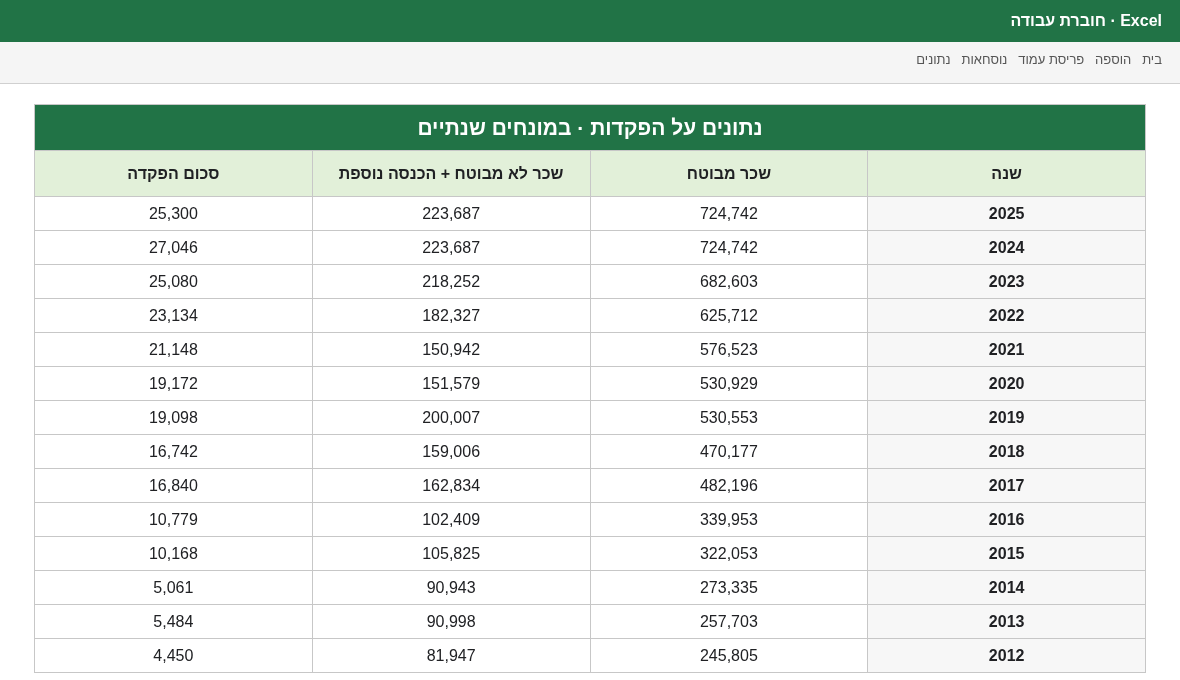
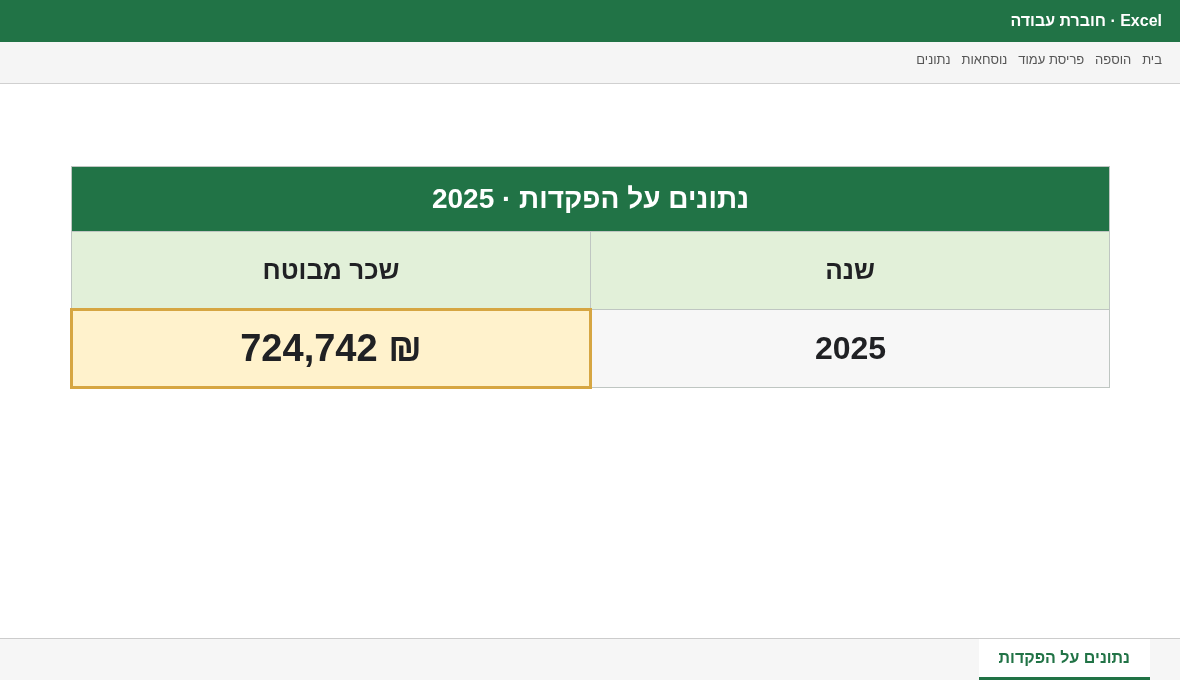
Focus deposit evidence on 2025 insured salary

diff --git a/index.html b/index.html
@@ -16,6 +16,6 @@
 <article class="panel change"><div class="panel-title"><strong>לתיקון</strong><span class="badge">הפער שנמצא</span></div><div class="row"><span>מוכרת שכיר</span><b>+128,360 ₪</b></div><div class="row"><span>מוכרת עצמאי</span><b>+150,439 ₪</b></div><div class="total"><small>סה״כ נוסף לפטור</small><strong>+278,799 ₪</strong></div></article>
 <article class="panel after"><div class="panel-title"><strong>אחרי</strong><span class="badge">מצב רצוי</span></div><div class="row"><span>מוכרת שכיר לפי 106</span><b>318,484 ₪</b></div><div class="row"><span>מוכרת עצמאי</span><b>150,439 ₪</b></div><div class="total"><small>סה״כ פטור ממס</small><strong>468,923 ₪</strong></div></article>
 </div><div class="employee-equation"><strong>מוכרת שכיר — חישוב הפער</strong><div class="formula"><span>318,484 ₪<small>מצב רצוי לפי 106</small></span><b>−</b><span>190,124 ₪<small>מצב קיים בקופות</small></span><b>=</b><span class="equals">128,360 ₪<small>לתיקון</small></span></div></div></div></section>
-<section class="proof"><div class="wrap"><div class="section-head"><div class="label" style="color:var(--green)">הנתונים</div><h2>מתוך האקסל</h2></div><div class="proof-grid"><figure class="capture"><img src="assets/excel-captures/correction-amounts.png" alt="גיליון סכומים לתיקון"><figcaption>סכומים לתיקון<span>שכיר, עצמאי והקופות שנבדקו</span></figcaption></figure><figure class="capture"><img src="assets/excel-captures/deposits.png" alt="גיליון נתונים על הפקדות"><figcaption>היסטוריית ההפקדות<span>שכר והפקדות לפי שנה</span></figcaption></figure></div><div class="steps"><div class="step"><b>איסוף</b><span>106 והפקדות</span></div><div class="step"><b>השוואה</b><span>מול הקופות</span></div><div class="step"><b>חישוב</b><span>הפער לתיקון</span></div><div class="step"><b>עדכון</b><span>גמל ופנסיה</span></div></div><p class="note">כל הסכומים המוצגים הם נומינליים ואינם כוללים את הרווחים שנצברו. הנתונים מוצגים ללא פרטים מזהים. התוצאה מתייחסת למקרה זה בלבד ותלויה בנתונים ובדין החל. אין באמור ייעוץ פנסיוני או ייעוץ מס.</p></div></section>
+<section class="proof"><div class="wrap"><div class="section-head"><div class="label" style="color:var(--green)">הנתונים</div><h2>מתוך האקסל</h2></div><div class="proof-grid"><figure class="capture"><img src="assets/excel-captures/correction-amounts.png" alt="גיליון סכומים לתיקון"><figcaption>סכומים לתיקון<span>שכיר, עצמאי והקופות שנבדקו</span></figcaption></figure><figure class="capture"><img src="assets/excel-captures/deposits.png" alt="גיליון נתונים על הפקדות"><figcaption>שכר מבוטח בשנת 2025<span>724,742 ₪ — נתון המדגים שכר מבוטח גבוה</span></figcaption></figure></div><div class="steps"><div class="step"><b>איסוף</b><span>106 והפקדות</span></div><div class="step"><b>השוואה</b><span>מול הקופות</span></div><div class="step"><b>חישוב</b><span>הפער לתיקון</span></div><div class="step"><b>עדכון</b><span>גמל ופנסיה</span></div></div><p class="note">כל הסכומים המוצגים הם נומינליים ואינם כוללים את הרווחים שנצברו. הנתונים מוצגים ללא פרטים מזהים. התוצאה מתייחסת למקרה זה בלבד ותלויה בנתונים ובדין החל. אין באמור ייעוץ פנסיוני או ייעוץ מס.</p></div></section>
 </main><section class="closing"><div class="wrap"><strong>תיקון קצבה מוכרת · גמל ופנסיה</strong><span class="case">מקרה 1 מתוך 3</span></div></section><footer><div class="wrap">מקרים לדוגמה</div></footer>
 </body></html>
